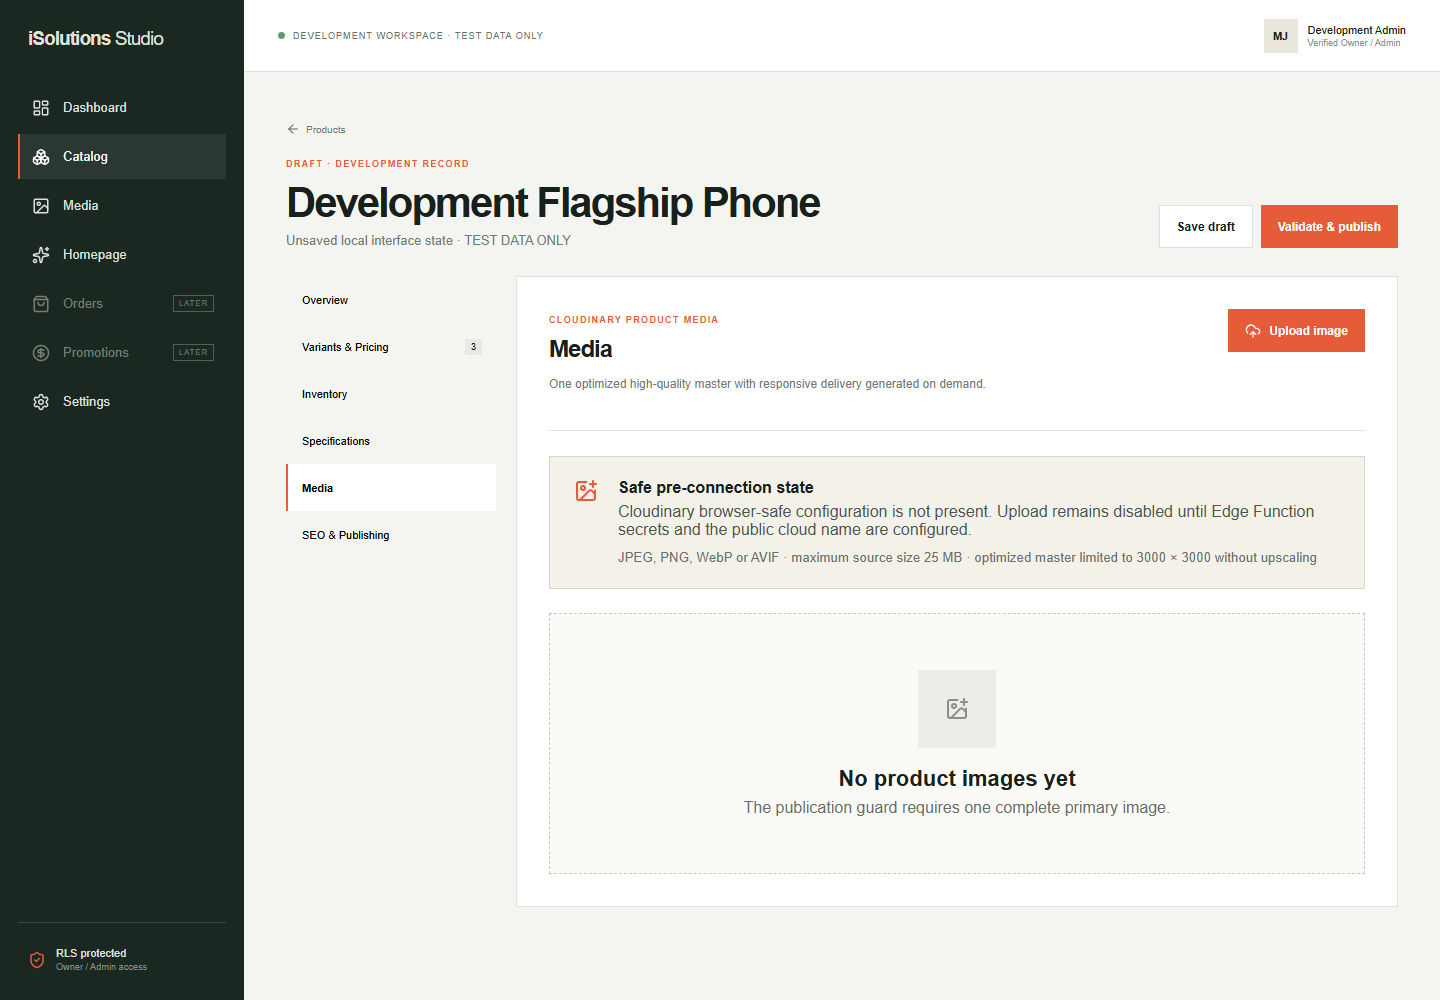
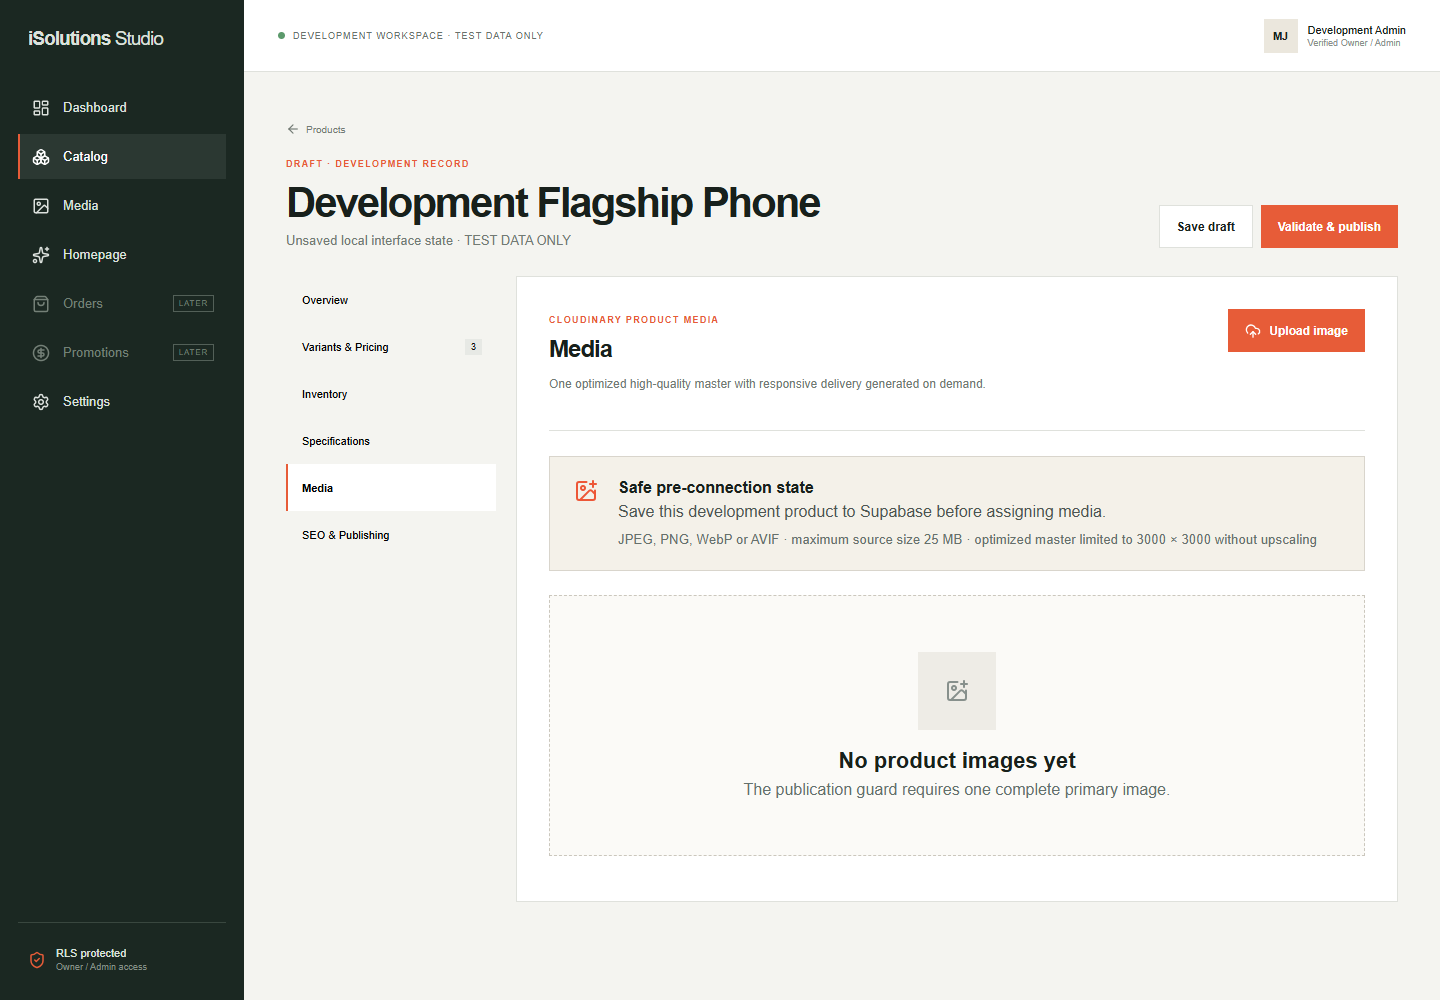
Replace obsolete Admin Media placeholder

Changed region(s): [[0.4062, 0.496, 0.9062, 0.589], [0.5, 0.744, 0.8125, 0.837], [0.6562, 0.682, 0.6875, 0.713]]

diff --git a/src/admin/MediaLibrary.tsx b/src/admin/MediaLibrary.tsx
@@ -1,0 +1,128 @@
+import { useEffect, useState } from "react";
+import { ChevronRight, Image } from "lucide-react";
+import { supabase } from "../lib/supabase";
+
+type MediaIndexRecord = {
+  id: string;
+  product_id: string;
+  secure_url: string | null;
+  alt_text: string;
+  width: number | null;
+  height: number | null;
+  format: string | null;
+  is_primary: boolean;
+  product: { id: string; title: string; publication_status: string } | null;
+};
+
+export function MediaLibrary() {
+  const [records, setRecords] = useState<MediaIndexRecord[]>([]);
+  const [loading, setLoading] = useState(true);
+  const [error, setError] = useState("");
+
+  useEffect(() => {
+    let active = true;
+    async function load() {
+      if (!supabase) {
+        if (active) {
+          setError("Supabase client environment is not configured.");
+          setLoading(false);
+        }
+        return;
+      }
+      const { data, error: queryError } = await supabase
+        .from("product_media")
+        .select(
+          "id,product_id,secure_url,alt_text,width,height,format,is_primary,sort_order,product:products(id,title,publication_status)",
+        )
+        .order("product_id")
+        .order("sort_order");
+      if (!active) return;
+      if (queryError) setError(queryError.message);
+      else setRecords((data ?? []) as unknown as MediaIndexRecord[]);
+      setLoading(false);
+    }
+    void load();
+    return () => {
+      active = false;
+    };
+  }, []);
+
+  const products = records.reduce<
+    Array<{ product: MediaIndexRecord["product"]; media: MediaIndexRecord[] }>
+  >((groups, record) => {
+    const group = groups.find(
+      (entry) => entry.product?.id === record.product_id,
+    );
+    if (group) group.media.push(record);
+    else groups.push({ product: record.product, media: [record] });
+    return groups;
+  }, []);
+
+  if (loading)
+    return <div className="media-library-state">Loading product media…</div>;
+  if (error)
+    return (
+      <div className="media-library-state error" role="alert">
+        {error}
+      </div>
+    );
+  if (products.length === 0)
+    return (
+      <div className="media-library-state">
+        <Image />
+        <h2>No media records yet</h2>
+        <p>
+          Open a saved development product and use its Media tab to upload the
+          first optimized master.
+        </p>
+        <a href="/admin/products">Open development products</a>
+      </div>
+    );
+
+  return (
+    <section className="media-library-list" aria-label="Product media records">
+      {products.map(({ product, media }) => (
+        <article key={product?.id ?? media[0].product_id}>
+          <div className="media-library-product">
+            <div>
+              <span className="admin-kicker">DEVELOPMENT PRODUCT</span>
+              <h2>{product?.title ?? "Development product"}</h2>
+              <p>
+                {media.length} media record{media.length === 1 ? "" : "s"}
+                {product?.publication_status
+                  ? ` · ${product.publication_status}`
+                  : ""}
+              </p>
+            </div>
+            <a href={`/admin/products/${media[0].product_id}?tab=media`}>
+              Manage in product <ChevronRight />
+            </a>
+          </div>
+          <div className="media-library-thumbs">
+            {media.map((item) => (
+              <figure key={item.id}>
+                {item.secure_url ? (
+                  <img src={item.secure_url} alt={item.alt_text} />
+                ) : (
+                  <div className="media-library-missing">
+                    <Image />
+                  </div>
+                )}
+                <figcaption>
+                  <strong>{item.alt_text}</strong>
+                  <span>
+                    {item.is_primary ? "Primary · " : ""}
+                    {item.width && item.height
+                      ? `${item.width} × ${item.height}`
+                      : "Dimensions pending"}
+                    {item.format ? ` · ${item.format.toUpperCase()}` : ""}
+                  </span>
+                </figcaption>
+              </figure>
+            ))}
+          </div>
+        </article>
+      ))}
+    </section>
+  );
+}

diff --git a/src/admin/admin.css b/src/admin/admin.css
@@ -1229,3 +1229,136 @@
     padding: 35px 25px;
   }
 }
+
+.media-library-heading {
+  margin-bottom: 28px;
+}
+.media-library-state {
+  min-height: 360px;
+  display: flex;
+  flex-direction: column;
+  align-items: center;
+  justify-content: center;
+  padding: 40px;
+  text-align: center;
+  border: 1px solid #d8d5cd;
+  background: #fff;
+}
+.media-library-state > svg {
+  width: 34px;
+  height: 34px;
+  margin-bottom: 18px;
+  color: #7e8985;
+}
+.media-library-state h2 {
+  margin: 0 0 8px;
+}
+.media-library-state p {
+  max-width: 560px;
+  margin: 0 0 20px;
+  color: #61706b;
+}
+.media-library-state a {
+  color: #d94d30;
+  font-weight: 800;
+}
+.media-library-state.error {
+  min-height: 180px;
+  color: #9f3828;
+}
+.media-library-list {
+  display: grid;
+  gap: 22px;
+}
+.media-library-list > article {
+  border: 1px solid #d8d5cd;
+  background: #fff;
+}
+.media-library-product {
+  display: flex;
+  align-items: center;
+  justify-content: space-between;
+  gap: 24px;
+  padding: 22px 24px;
+  border-bottom: 1px solid #e0ddd5;
+}
+.media-library-product h2 {
+  margin: 4px 0;
+  font-size: 22px;
+}
+.media-library-product p {
+  margin: 0;
+  color: #66716d;
+}
+.media-library-product > a {
+  display: inline-flex;
+  align-items: center;
+  gap: 7px;
+  flex: 0 0 auto;
+  color: #d94d30;
+  font-size: 13px;
+  font-weight: 800;
+}
+.media-library-product > a svg {
+  width: 17px;
+}
+.media-library-thumbs {
+  display: grid;
+  grid-template-columns: repeat(auto-fill, minmax(190px, 1fr));
+  gap: 16px;
+  padding: 20px 24px 24px;
+}
+.media-library-thumbs figure {
+  min-width: 0;
+  margin: 0;
+  border: 1px solid #e0ddd5;
+  background: #faf9f6;
+}
+.media-library-thumbs img,
+.media-library-missing {
+  width: 100%;
+  aspect-ratio: 4 / 3;
+  object-fit: contain;
+  background: #f0eee8;
+}
+.media-library-missing {
+  display: grid;
+  place-items: center;
+  color: #89918e;
+}
+.media-library-thumbs figcaption {
+  display: block;
+  padding: 12px;
+}
+.media-library-thumbs figcaption strong,
+.media-library-thumbs figcaption span {
+  display: block;
+  overflow: hidden;
+  text-overflow: ellipsis;
+  white-space: nowrap;
+}
+.media-library-thumbs figcaption strong {
+  margin-bottom: 5px;
+  font-size: 13px;
+}
+.media-library-thumbs figcaption span {
+  color: #68736f;
+  font-size: 11px;
+}
+@media (max-width: 700px) {
+  .media-library-state {
+    min-height: 300px;
+    padding: 28px 18px;
+  }
+  .media-library-product {
+    display: block;
+    padding: 18px;
+  }
+  .media-library-product > a {
+    margin-top: 16px;
+  }
+  .media-library-thumbs {
+    grid-template-columns: repeat(2, minmax(0, 1fr));
+    padding: 14px 18px 18px;
+  }
+}

diff --git a/src/admin/AdminApp.tsx b/src/admin/AdminApp.tsx
@@ -28,6 +28,7 @@ import {
 } from "../data/adminDevelopmentData";
 import { hasSupabaseEnvironment, supabase } from "../lib/supabase";
 import { MediaManager } from "./MediaManager";
+import { MediaLibrary } from "./MediaLibrary";
 import "./admin.css";
 
 const nav = [
@@ -632,9 +633,8 @@ function Future({ title }: { title: string }) {
         <span className="admin-kicker">PHASE BOUNDARY</span>
         <h1>{title}</h1>
         <p>
-          {title === "Media"
-            ? "Cloudinary metadata foundations exist, but uploading is not authorized in this pass."
-            : "This area is intentionally unavailable until a later Owner-approved phase."}
+          This area is intentionally unavailable until a later Owner-approved
+          phase.
         </p>
         <a href="/admin">Return to dashboard</a>
       </div>
@@ -651,7 +651,22 @@ export function AdminApp() {
   let page: React.ReactNode = <Dashboard />;
   if (path === "/admin/products") page = <ProductList />;
   else if (path.startsWith("/admin/products/")) page = <ProductEditor />;
-  else if (path === "/admin/media") page = <Future title="Media" />;
+  else if (path === "/admin/media")
+    page = (
+      <AdminLayout section="Media">
+        <div className="admin-heading compact media-library-heading">
+          <div>
+            <span className="admin-kicker">PHASE 3B · CLOUDINARY</span>
+            <h1>Product media</h1>
+            <p>
+              Review media records here, then open the product Media editor for
+              upload and management actions.
+            </p>
+          </div>
+        </div>
+        <MediaLibrary />
+      </AdminLayout>
+    );
   else if (path === "/admin/homepage") page = <Future title="Homepage" />;
   else if (path === "/admin/settings") page = <Future title="Settings" />;
   return <AuthorizedAdmin>{page}</AuthorizedAdmin>;
